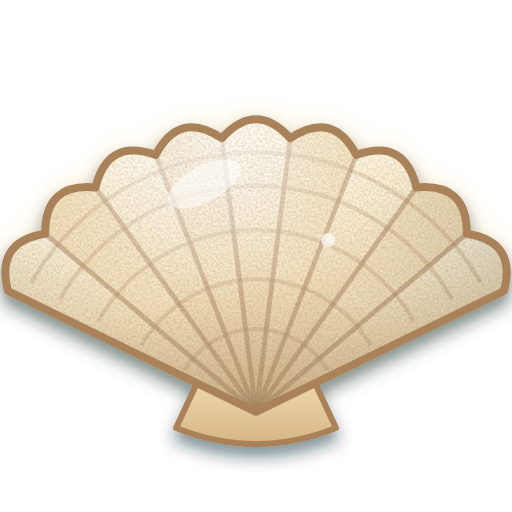
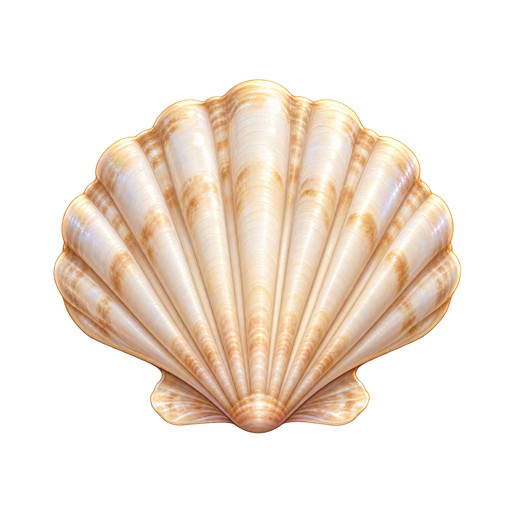
art: use AI-generated boat, claw and shell sprites for the shell hunt
Replace the vector sprites in public/art/hunt with the AI-generated set
(same names, sizes and anchors). Keep the vector set in
scripts/hunt-art/vector-fallback and store prompts/QA in scripts/hunt-art/ai.
Slightly enlarge boat and claw.

Claude-Session: https://claude.ai/code/session_01DeBm48Vaafme39cvfhrata

diff --git a/src/tank.ts b/src/tank.ts
@@ -247,7 +247,7 @@ function drawHunt(e: number) {
   ctx.beginPath(); ctx.moveTo(px, py); ctx.lineTo(tx, ty); ctx.stroke();
 
   const clawImg = huntArt.claw;
-  const ch = side * 0.13;
+  const ch = side * 0.14;
   const cw = ch * 128 / 176;
   ctx.save();
   ctx.translate(tx, ty); ctx.rotate(-angle);
@@ -259,7 +259,7 @@ function drawHunt(e: number) {
 
   // Boat on top.
   const boat = huntArt.boat;
-  const bw = side * 0.26;
+  const bw = side * 0.27;
   const bh = bw * 0.75;
   ctx.save();
   ctx.translate(px, py); ctx.rotate(Math.sin(clock * 1.1) * 0.02);

diff --git a/scripts/hunt-art/build.py b/scripts/hunt-art/build.py
@@ -1,6 +1,6 @@
 #!/usr/bin/env python3
 """Draws the shell-hunt sprites (boat, claw, three shells) as SVG and renders
-them to transparent PNGs in public/art/hunt.
+them to transparent PNGs in scripts/hunt-art/vector-fallback (fallback; public/art/hunt holds the AI-generated sprites).
 
     python3 scripts/hunt-art/build.py
 
@@ -11,7 +11,7 @@ import math
 import pathlib
 
 HERE = pathlib.Path(__file__).resolve().parent
-OUT = HERE.parent.parent / "public" / "art" / "hunt"
+OUT = HERE / "vector-fallback"
 
 # ---------------------------------------------------------------- shells ---
 SHELLS = {

diff --git a/scripts/hunt-art/ai/NOTES.md b/scripts/hunt-art/ai/NOTES.md
@@ -1,0 +1,13 @@
+# AI art — shell hunt
+
+Boat, claw and three shells in `public/art/hunt/` are AI-generated (built-in image generation) and only resized / re-canvased to the sizes below; they are real transparent RGBA PNGs. Prompts and source references: `hunt-art-prompts.json`. Automated checks (size, alpha, margins, SHA-256): `hunt-art-qa.json`.
+
+| File | Size |
+|---|---|
+| boat.png | 720×540 |
+| claw.png | 256×352 |
+| shell_0.png, shell_1.png, shell_2.png | 512×512 |
+
+Anchor constants used by `src/tank.ts`: boat rope outlet at (50 %, 83 %) of the boat canvas, claw grab point at 71 % of its height. The vector set in `../vector-fallback/` uses the same anchors and can be swapped back in by copying the PNGs.
+
+Not hand-tested on real Windows yet: dropping/catching at different resolutions and DPI.

diff --git a/README.md b/README.md
@@ -104,7 +104,7 @@ remove it.
 
 The frontend is type-checked and built locally. Rust tests cover reachability,
 pause, catches/retraction, replay-safe payout, failed saves and migration.
-Hunt sprites are regenerated with `python3 scripts/hunt-art/build.py`. Windows GUI checks for autostart, dock,
+Hunt sprites in `public/art/hunt` are AI-generated (prompts and QA in `scripts/hunt-art/ai/`); `scripts/hunt-art/build.py` renders a vector fallback set into `scripts/hunt-art/vector-fallback/`. Windows GUI checks for autostart, dock,
 hotkey, on-desktop hunt and focus/Explorer and installer behaviour remain required before release. This
 change does not apply a Windows theme or alter file intake safety.
 
